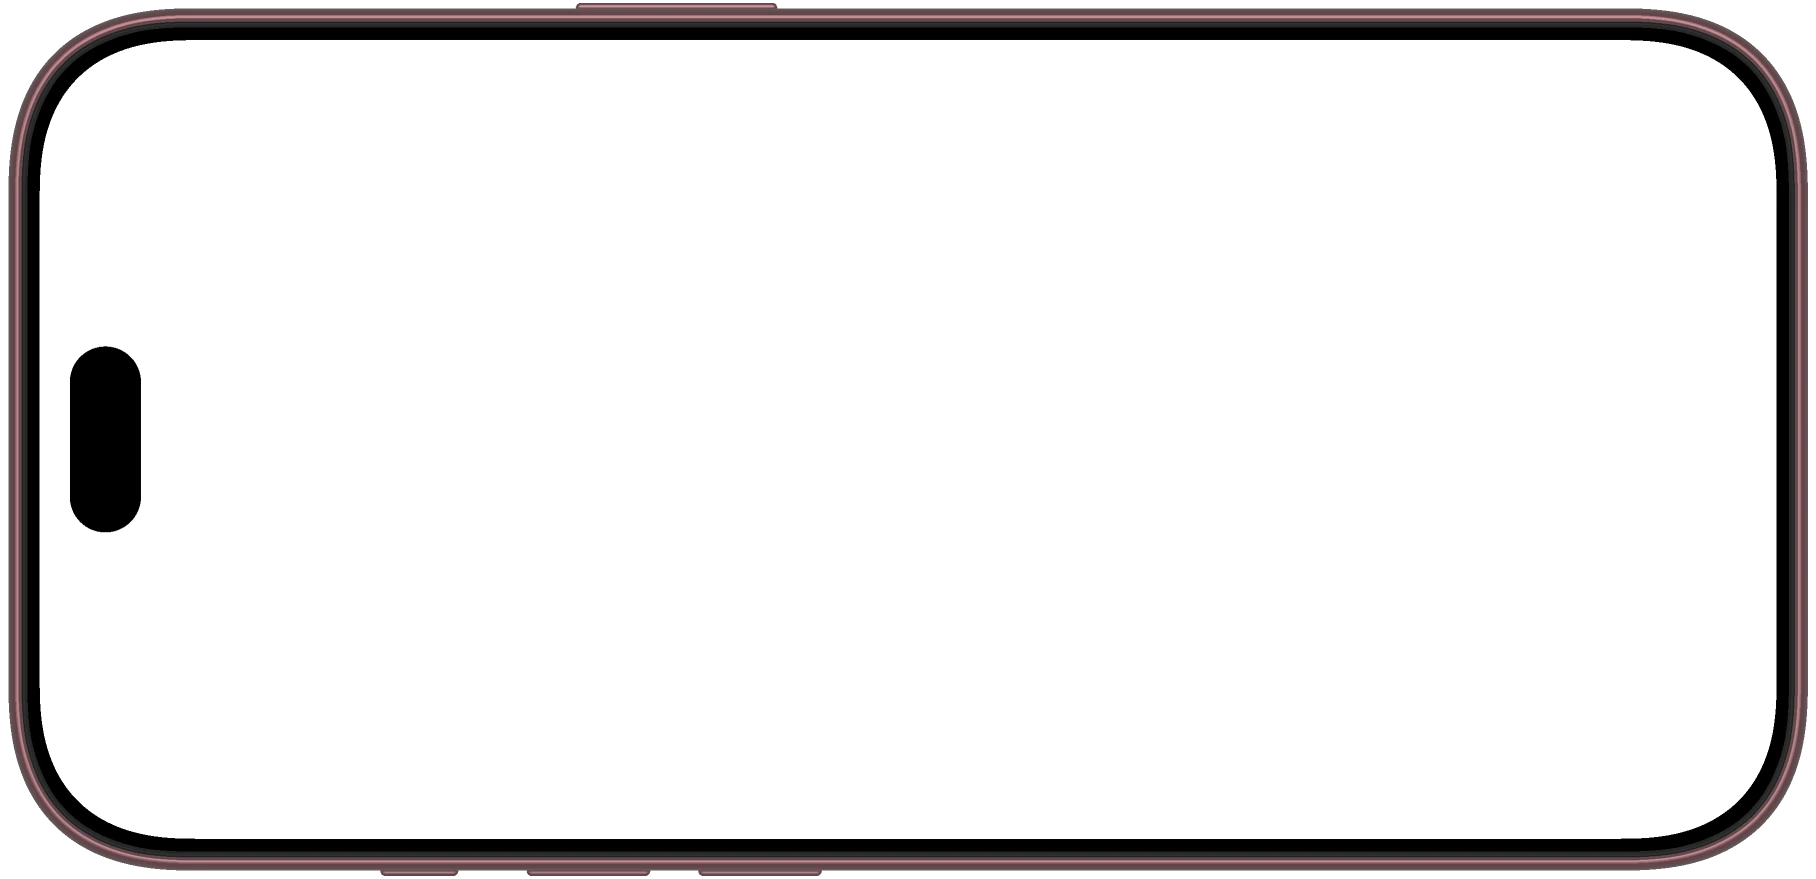
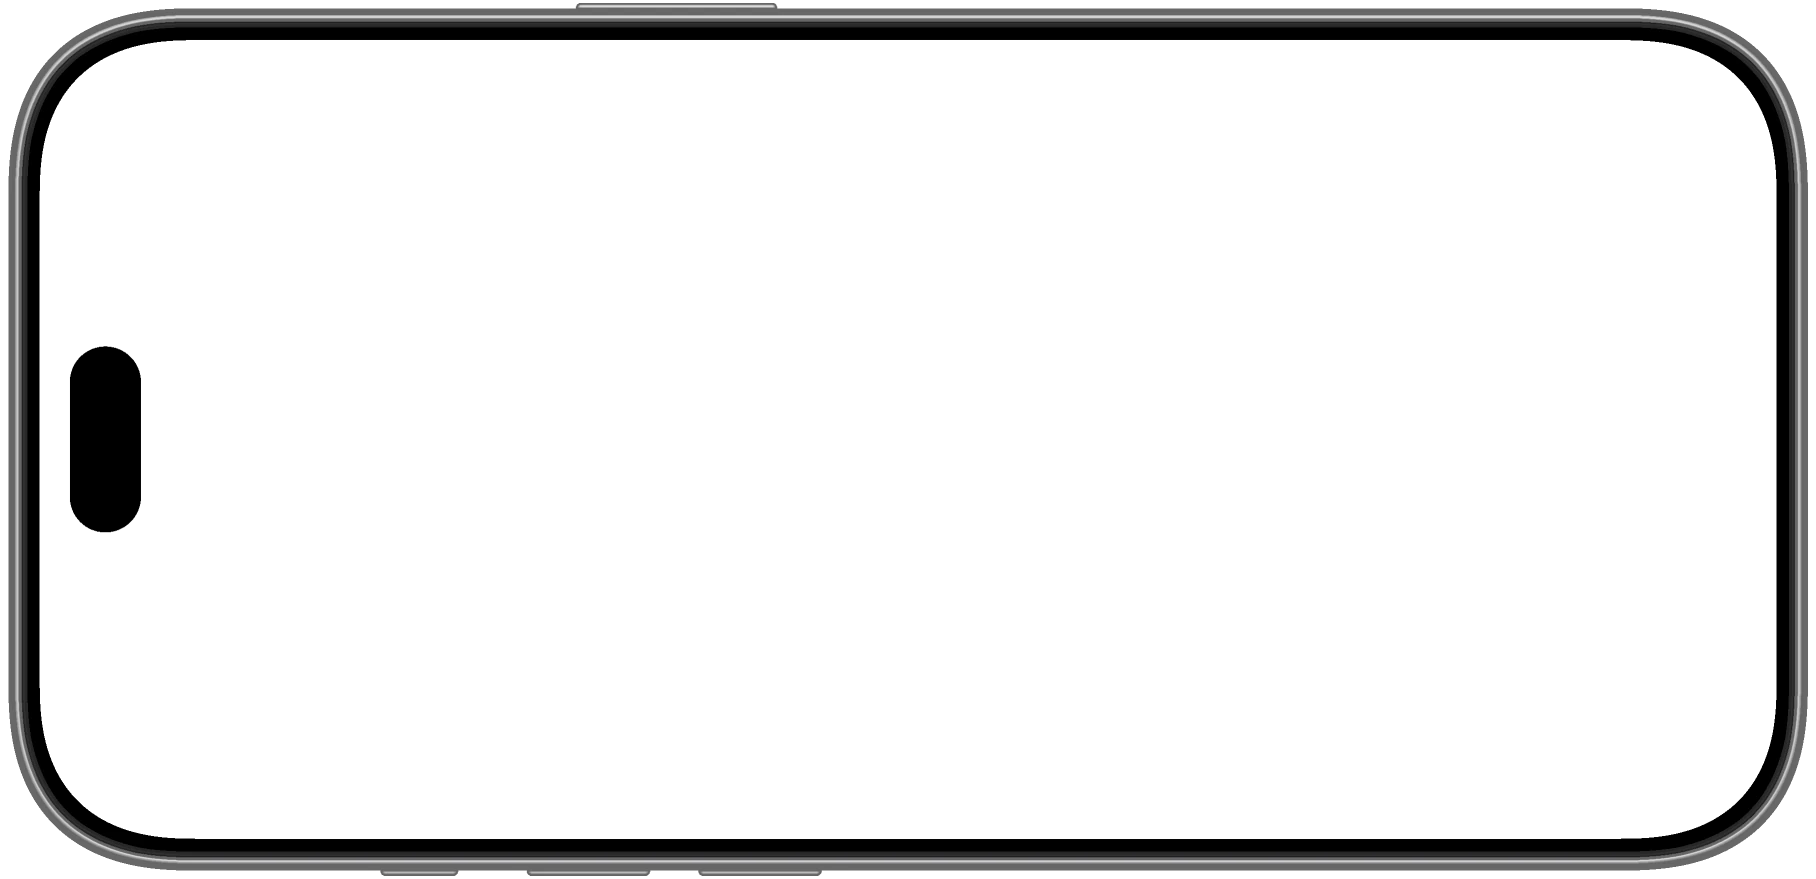
Second Chair: iPhone in Silver; screen corners fill the device windows
- iPhone 18 Pro frames re-rendered in the Silver finish (the 18 Pro is aluminium;
  Silver is its plain-metal option).
- The live screens' corners were rounder than the frames' continuous-curve windows,
  leaving the page showing through at the corners and an uneven black border. Their
  radii now sit just inside the largest circle that fills each window (iPhone 9.9 mm
  of 10.8, Watch 8.5 mm of 9.2); the frame's black border hides the rest.

diff --git a/second-chair/assets/css/base.css b/second-chair/assets/css/base.css
@@ -191,7 +191,7 @@ ul, ol { margin: 0; padding: 0; }
 .mm-row { display: flex; justify-content: space-between; margin-top: 8px; }
 .mm-row span + span { color: rgba(0, 0, 0, .5); }
 
-/* ---- iPhone hardware: iPhone 18 Pro, Burgundy ----
+/* ---- iPhone hardware: iPhone 18 Pro, Silver ----
    The hardware is a pre-rendered frame (assets/img/devices), built from Apple's published dimensions and measured
    product images; its display window is transparent, and the live screen sits beneath it. Window positions are the
    display's exact place in the frame (66.59 x 144.78 mm active area in a 73.3 x 151.4 mm frame incl. buttons). */
@@ -200,7 +200,9 @@ ul, ol { margin: 0; padding: 0; }
 .phone-body::after { content: ""; position: absolute; inset: 0; z-index: 20; pointer-events: none; background: url("../img/devices/iphone18pro-portrait.webp") center / 100% 100% no-repeat; }
 .phone-body::before { content: ""; position: absolute; inset: .46% .96%; z-index: -1; border-radius: 16% / 7.7%;   /* the shadow, under the silhouette */
   box-shadow: var(--phone-shadow, 0 40px 80px -24px rgba(0, 0, 0, .55), 0 14px 30px -10px rgba(0, 0, 0, .35)); }
-.phone-bezel { position: absolute; left: 4.576%; top: 2.186%; width: 90.849%; height: 95.627%; background: #000; border-radius: 18% / 8.3%; }
+/* Corners: a 9.9 mm radius, just inside the largest circle (10.8 mm) that still fills the window's continuous-curve
+   corners; the frame's black border hides the rest. */
+.phone-bezel { position: absolute; left: 4.576%; top: 2.186%; width: 90.849%; height: 95.627%; background: #000; border-radius: 14.93% / 6.87%; }
 .screen { position: relative; width: 100%; height: 100%; overflow: hidden; border-radius: inherit; background: #000; isolation: isolate; }
 .screen::after { /* glass: a faint sheen across the top */
   content: ""; position: absolute; inset: 0; z-index: 9; pointer-events: none; border-radius: inherit;
@@ -209,7 +211,7 @@ ul, ol { margin: 0; padding: 0; }
 .phone--landscape .phone-body { aspect-ratio: 151.40 / 73.30; }
 .phone--landscape .phone-body::after { background-image: url("../img/devices/iphone18pro-landscape.webp"); }
 .phone--landscape .phone-body::before { inset: .96% .46%; border-radius: 7.7% / 16%; }
-.phone--landscape .phone-bezel { left: 2.186%; top: 4.576%; width: 95.627%; height: 90.849%; border-radius: 8.3% / 18%; }
+.phone--landscape .phone-bezel { left: 2.186%; top: 4.576%; width: 95.627%; height: 90.849%; border-radius: 6.87% / 14.93%; }
 .island { display: none; }    /* the Dynamic Island is part of the frame */
 
 /* ---- StandBy, Now Playing (landscape) ---- */
@@ -328,9 +330,9 @@ ul, ol { margin: 0; padding: 0; }
 .watch-case::after { content: ""; position: absolute; inset: 0; z-index: 5; pointer-events: none; background: url("../img/devices/watch-ultra4.webp") center / 100% 100% no-repeat; }
 .watch-case::before { content: ""; position: absolute; inset: .8% 5.5%; z-index: -1; border-radius: 35% / 33%; box-shadow: 0 16cqw 22cqw -9cqw rgba(60, 30, 10, .45), 0 4cqw 6cqw -2cqw rgba(60, 30, 10, .2); }
 .watch-crown, .watch-button, .watch-action { display: none; }    /* part of the rendered case */
-.watch-glass { position: absolute; left: 14.947%; top: 9.791%; width: 70.106%; height: 80.417%; background: #000; border-radius: 26% / 23%; }
+.watch-glass { position: absolute; left: 14.947%; top: 9.791%; width: 70.106%; height: 80.417%; background: #000; border-radius: 25.73% / 21.12%; }   /* 8.46 mm: fills the window's corners (limit 9.2) */
 .watch-screen {   /* sizes in cqw of the whole watch, fitted to the 32.88 mm display */
-  position: relative; isolation: isolate; height: 100%; border-radius: 26.1% / 23.1%; overflow: hidden; color: #fff; font-family: var(--sans);
+  position: relative; isolation: isolate; height: 100%; border-radius: inherit; overflow: hidden; color: #fff; font-family: var(--sans);
   padding: 4.57cqw 5.71cqw 4.24cqw; display: flex; flex-direction: column;   /* keeps the corner buttons inside the rounded corners */ align-items: center; justify-content: space-between; background: #1c1b1d;
 }
 /* The ground: dark, faintly tinted by the artwork, the way watchOS draws it. */

diff --git a/second-chair/_docs/devices/README.md b/second-chair/_docs/devices/README.md
@@ -3,7 +3,7 @@
 The Apple Watch and iPhone hardware on the site are pre-rendered frames (`assets/img/devices/*.webp`) with a transparent display window; the live, interactive screens sit beneath them. Rendered 16 November 2026.
 
 - **Apple Watch Ultra 4**, 49 mm, Natural titanium (`watch.py`)
-- **iPhone 18 Pro**, Burgundy, portrait and landscape (`phone.py`)
+- **iPhone 18 Pro**, Silver, portrait and landscape (`phone.py`, rendered with `phone.P['f0'] = (0.86, 0.86, 0.875)`; the script's default is the measured Burgundy)
 
 Geometry is in millimetres: overall sizes and display resolutions from Apple's published specifications; corner curves, rim and frame cross-sections, crown, buttons and Dynamic Island measured from Apple's front-on product images; lighting fitted to Apple's Watch photo (`fit.py`, `env_fit.json`). Each script's docstring says which values are documented, measured, derived or estimated. `compare.py` scores a render against the reference photo.
 
@@ -15,6 +15,8 @@ phone.render(scale=12, ss=2, margin=0.7, frame=True, out='iphone18pro-portrait.p
 im, _ = phone.render(scale=12, ss=2, margin=0.7, frame=True, landscape=True); im.rotate(90, expand=True).save('iphone18pro-landscape.png')
 watch.render(scale=14, ss=2, margin=0.4, margin_x=2.6, frame=True, out='watch-ultra4.png')
 ```
+
+The live screens' corner radii in `base.css` are set just inside the largest circle that still fills each window (iPhone 10.8 mm, Watch 9.2 mm), so the frame's black border hides their corners.
 
 then `cwebp -q 90 -alpha_q 100 -m 6 X.png -o X.webp`. The display windows' positions in `assets/css/base.css` come from `apertures.json`; change both together.
 
